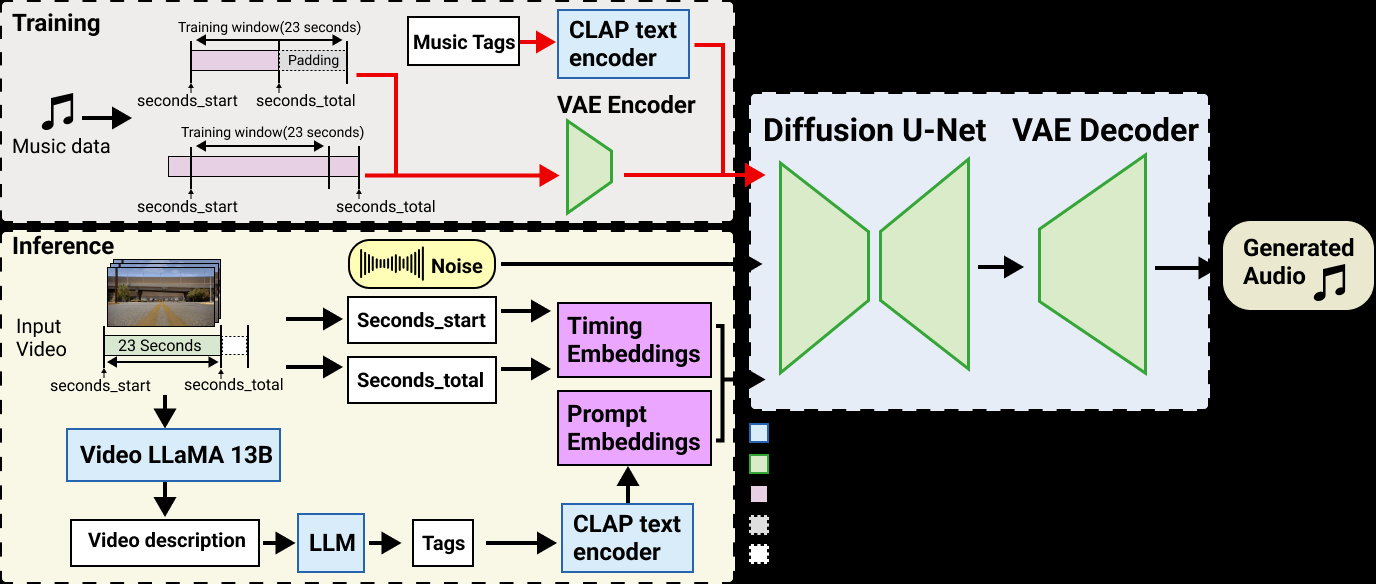
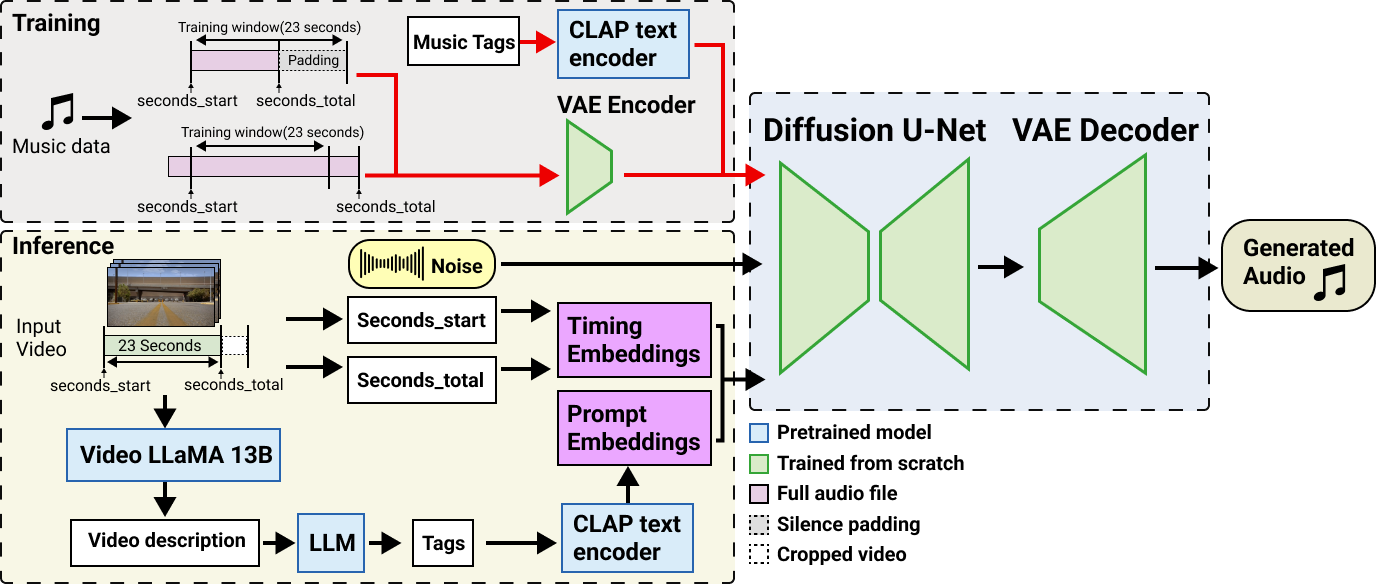
Use the paper figure for SONIQUE and link the reverberant-speech preprint PDF.

Changed region(s): [[0.0, 0.0, 1.0, 1.0]]

diff --git a/publications/index.html b/publications/index.html
@@ -130,19 +130,21 @@
         </div>
       </article>
       <article class="pub reveal">
-        <div class="pub-thumb"><a href="https://wuyi.io/research/speech-conditioned-acoustic-maps/" target="_blank" rel="noopener"><img src="../assets/images/papers/fig-reverberant-speech-conditioning.png" alt=""></a></div>
+        <div class="pub-thumb"><a href="https://arxiv.org/abs/2611.11834" target="_blank" rel="noopener"><img src="../assets/images/papers/fig-reverberant-speech-conditioning.png" alt=""></a></div>
         <div>
-          <h3><a href="https://wuyi.io/research/speech-conditioned-acoustic-maps/" target="_blank" rel="noopener">Reverberant Speech Conditioning for Material-Aware Acoustic Parameter Mapping</a></h3>
+          <h3><a href="https://arxiv.org/abs/2611.11834" target="_blank" rel="noopener">Reverberant Speech Conditioning for Material-Aware Acoustic Parameter Mapping</a></h3>
           <p class="year">2026</p>
           <p class="authors">Yi Wu, Olha Townsend, Qianqian Fang, <span class='self'>Magdalena Fuentes</span>, You Zhang</p>
-          <p class="venue">Preprint, under review</p>
+          <p class="venue">arXiv preprint, under review</p>
           
-          <div class="btn-row"><button class="btn btn-xs bib-toggle" type="button" aria-expanded="false">Bib</button><a class="btn btn-xs" href="https://wuyi.io/research/speech-conditioned-acoustic-maps/" target="_blank" rel="noopener">Project Page</a></div>
+          <div class="btn-row"><button class="btn btn-xs bib-toggle" type="button" aria-expanded="false">Bib</button><a class="btn btn-xs" href="https://arxiv.org/pdf/2611.11834" target="_blank" rel="noopener">PDF</a><a class="btn btn-xs" href="https://wuyi.io/research/speech-conditioned-acoustic-maps/" target="_blank" rel="noopener">Project Page</a></div>
           <div class="bibtex"><button class="btn btn-xs copy-bib" type="button" aria-label="Copy"><svg class="copy-icon" viewBox="0 0 24 24" aria-hidden="true" focusable="false"><rect x="9" y="9" width="13" height="13" rx="2"/><path d="M5 15H4a2 2 0 0 1-2-2V4a2 2 0 0 1 2-2h9a2 2 0 0 1 2 2v1"/></svg><svg class="copy-check" viewBox="0 0 24 24" aria-hidden="true" focusable="false"><path d="M20 6 9 17l-5-5"/></svg></button><pre>@misc{wu2026reverberant,
   title = {Reverberant Speech Conditioning for Material-Aware Acoustic Parameter Mapping},
   author = {Wu, Yi and Townsend, Olha and Fang, Qianqian and Fuentes, Magdalena and Zhang, You},
   year = {2026},
-  url = {https://wuyi.io/research/speech-conditioned-acoustic-maps/},
+  eprint = {2611.11834},
+  archivePrefix = {arXiv},
+  url = {https://arxiv.org/abs/2611.11834},
 }</pre></div>
         </div>
       </article>
@@ -422,7 +424,7 @@
         </div>
       </article>
       <article class="pub reveal">
-        <div class="pub-thumb"><a href="https://arxiv.org/abs/2410.03879" target="_blank" rel="noopener"><img src="../assets/images/papers/587.png" alt=""></a></div>
+        <div class="pub-thumb"><a href="https://arxiv.org/abs/2410.03879" target="_blank" rel="noopener"><img src="../assets/images/papers/587.png?v=2" alt=""></a></div>
         <div>
           <h3><a href="https://arxiv.org/abs/2410.03879" target="_blank" rel="noopener">SONIQUE: Video Background Music Generation Using Unpaired Audio-Visual Data</a></h3>
           <p class="year">2025</p>
